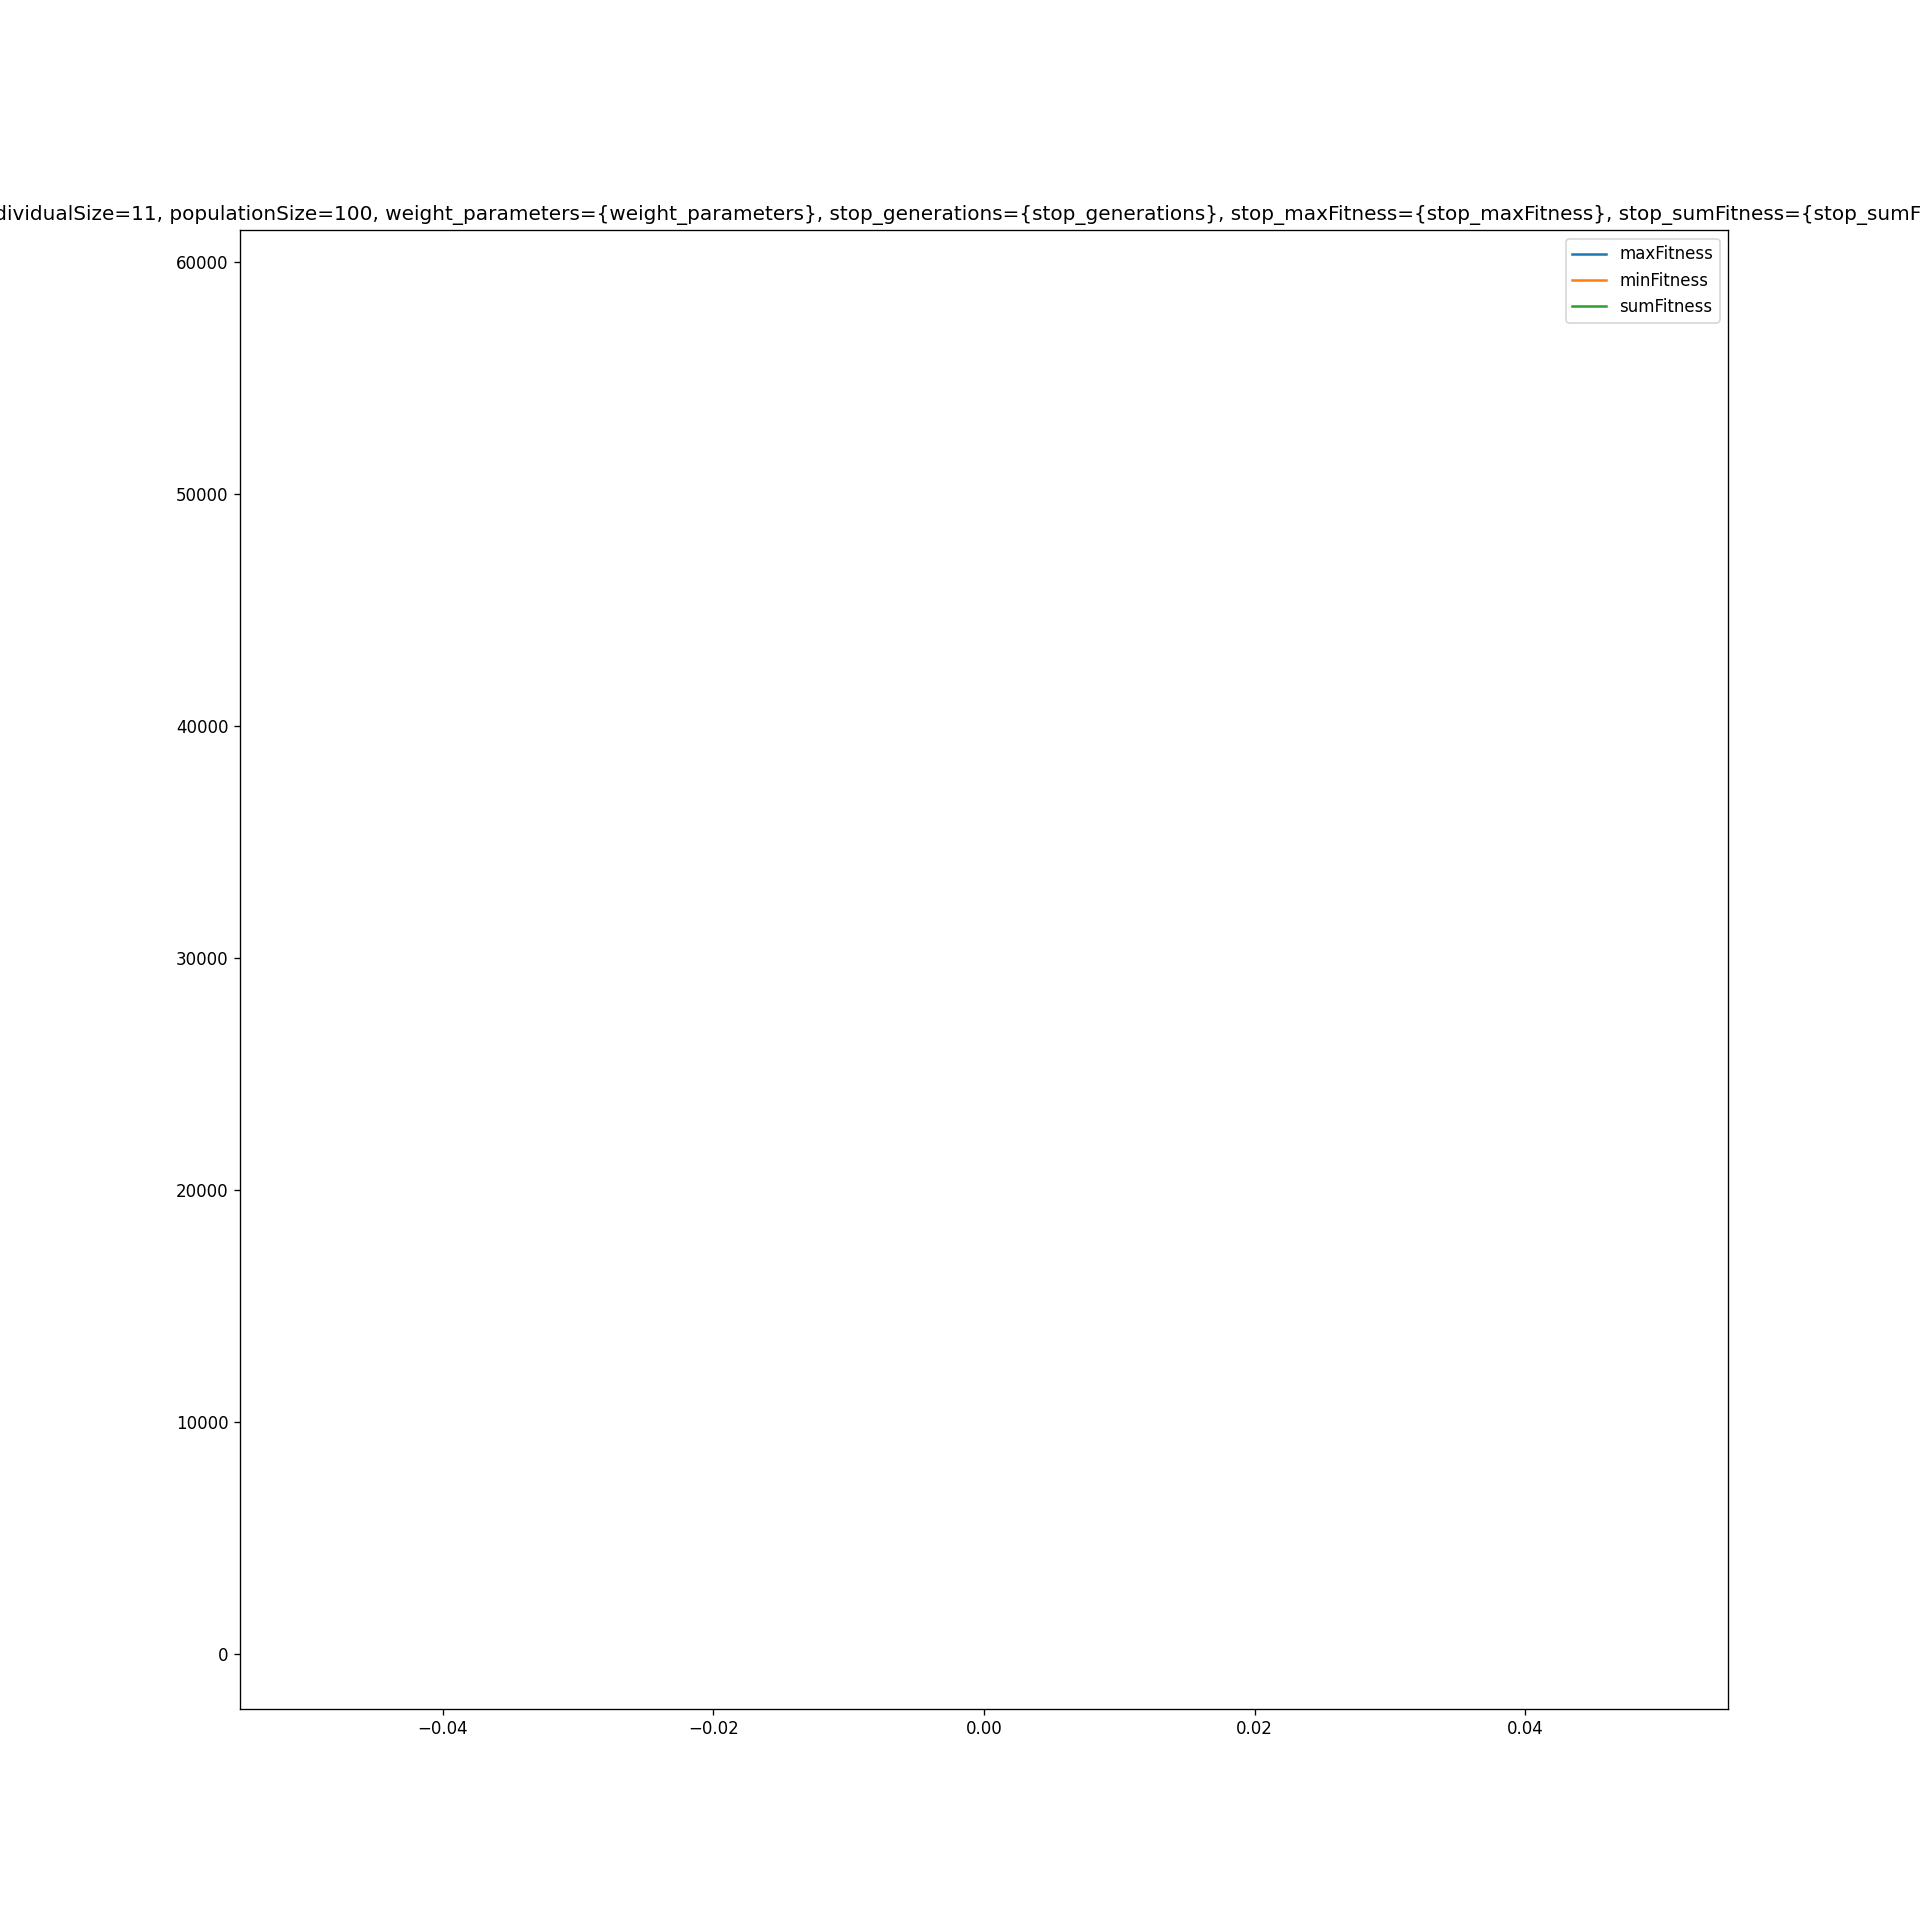
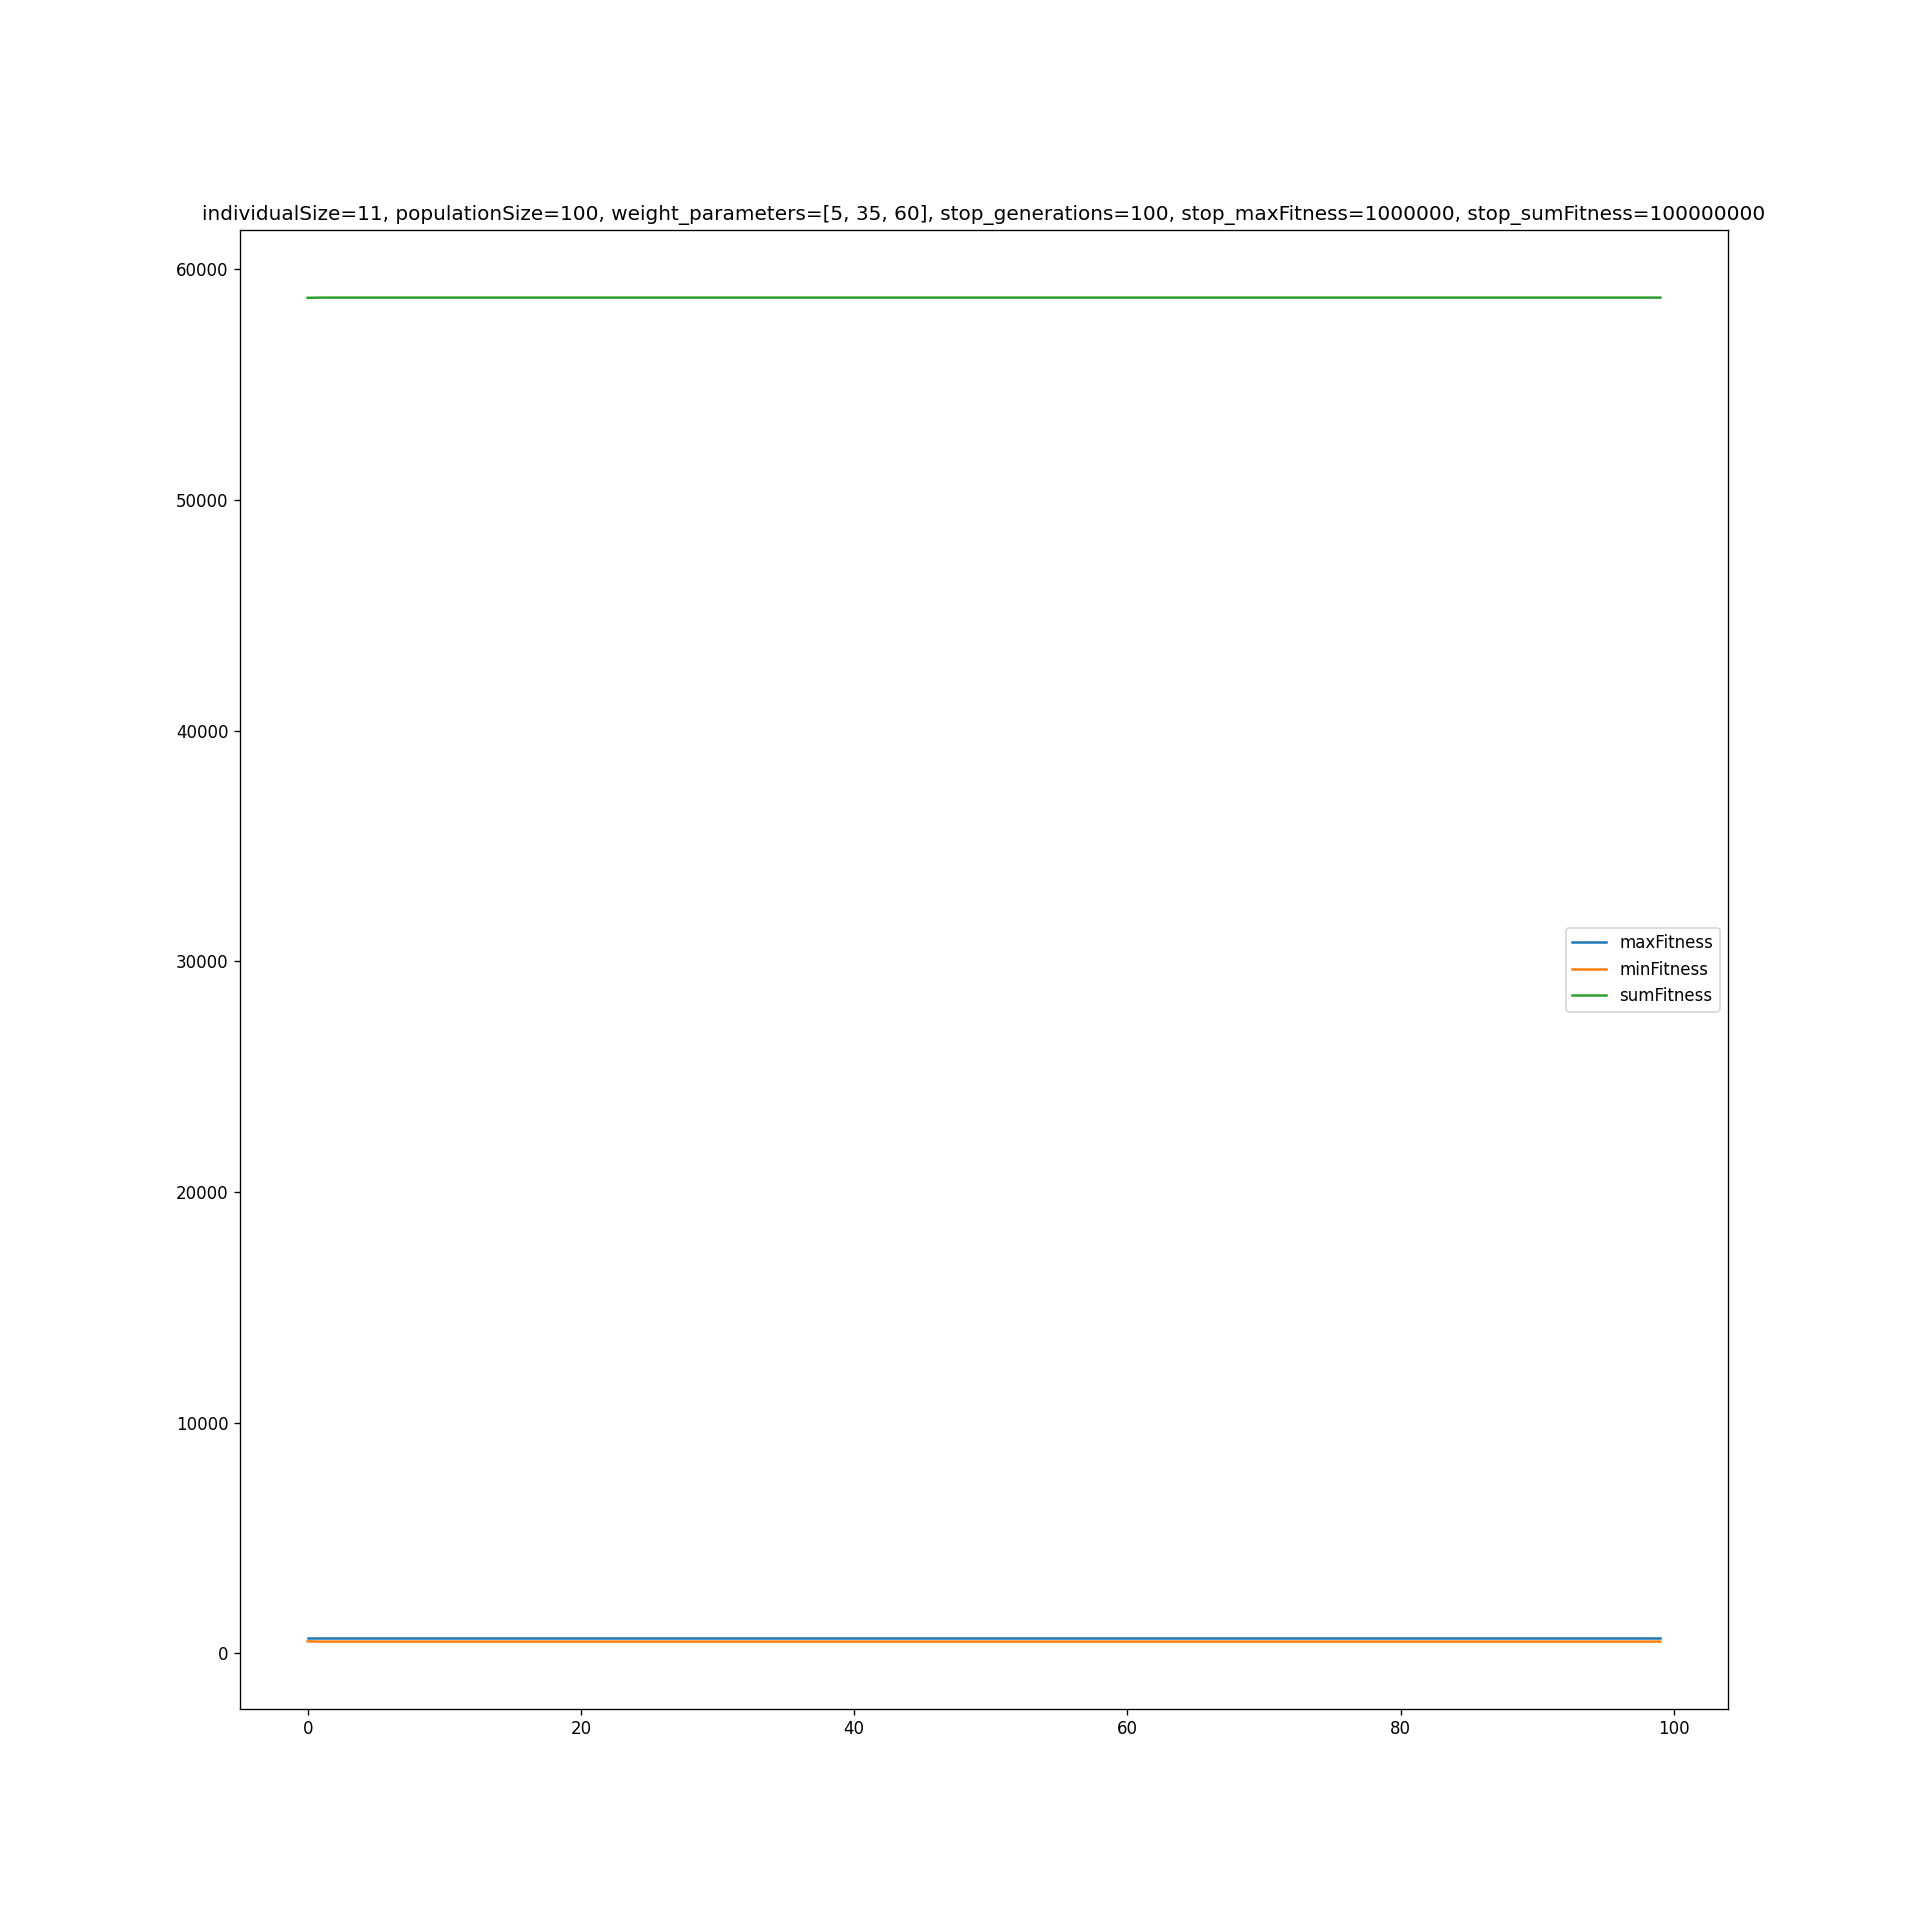
update queens.py

diff --git a/queens.py b/queens.py
@@ -181,7 +181,7 @@ def queensGenetic( individualSize, populationSize, weight_parameters, stop_gener
             break;
         if( sumFitness >= stop_sumFitness):
             break;
-        while (generation<populationSize):
+        while (len(offsprings)<populationSize):
             rouletteOperation = random.randrange( sum(weight_parameters))
             if rouletteOperation < weight_parameters[0]: #mutation
                 offsprings += [queensMutation(population,populationFitness)]
@@ -190,15 +190,18 @@ def queensGenetic( individualSize, populationSize, weight_parameters, stop_gener
             else: # crossover
                 offspring1, offspring2 = queensCrossover(population,populationFitness)
                 offsprings += [offspring1]+[offspring2]
-            generation += 1
         population = offsprings[:populationSize]
+        generation += 1
     print(f'{individualSize} Queens Genetic, maxFitness={maxFitness}, minFitness={minFitness}, sumFitness={sumFitness}')
     queensGeneticPlotStatistics(f'{individualSize}_Queens_Genetic', 
                                 f'individualSize={individualSize}, populationSize={populationSize},'+
-                                ' weight_parameters={weight_parameters}, stop_generations={stop_generations},'+
-                                ' stop_maxFitness={stop_maxFitness}, stop_sumFitness={stop_sumFitness}', 
+                                f' weight_parameters={weight_parameters}, stop_generations={stop_generations},'+
+                                f' stop_maxFitness={stop_maxFitness}, stop_sumFitness={stop_sumFitness}', 
                                 statistics)
     print(f'maxFitness={maxFitness}, minFitness={minFitness}, sumFitness={sumFitness}')
+    print(f'statistics[0]={statistics[0]}')
+    print(f'statistics[1]={statistics[1]}')
+    print(f'statistics[2]={statistics[2]}')
     return population
 
 def main_bruteforce():
